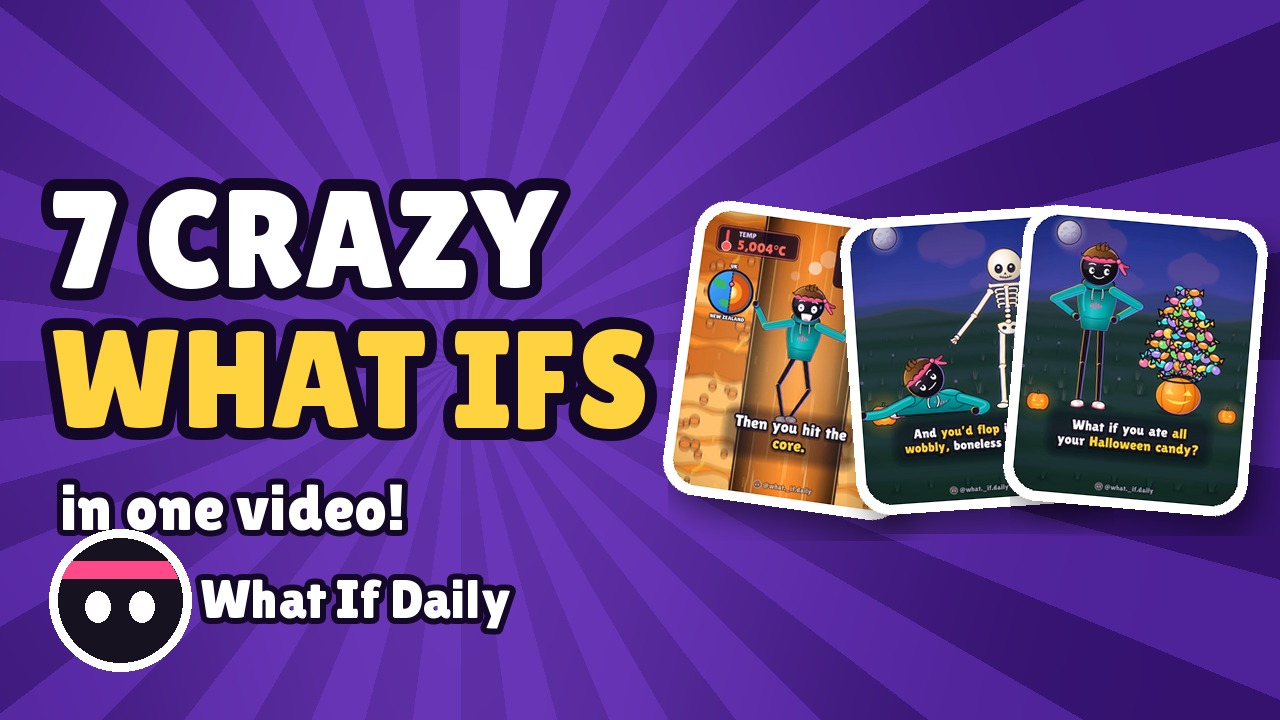
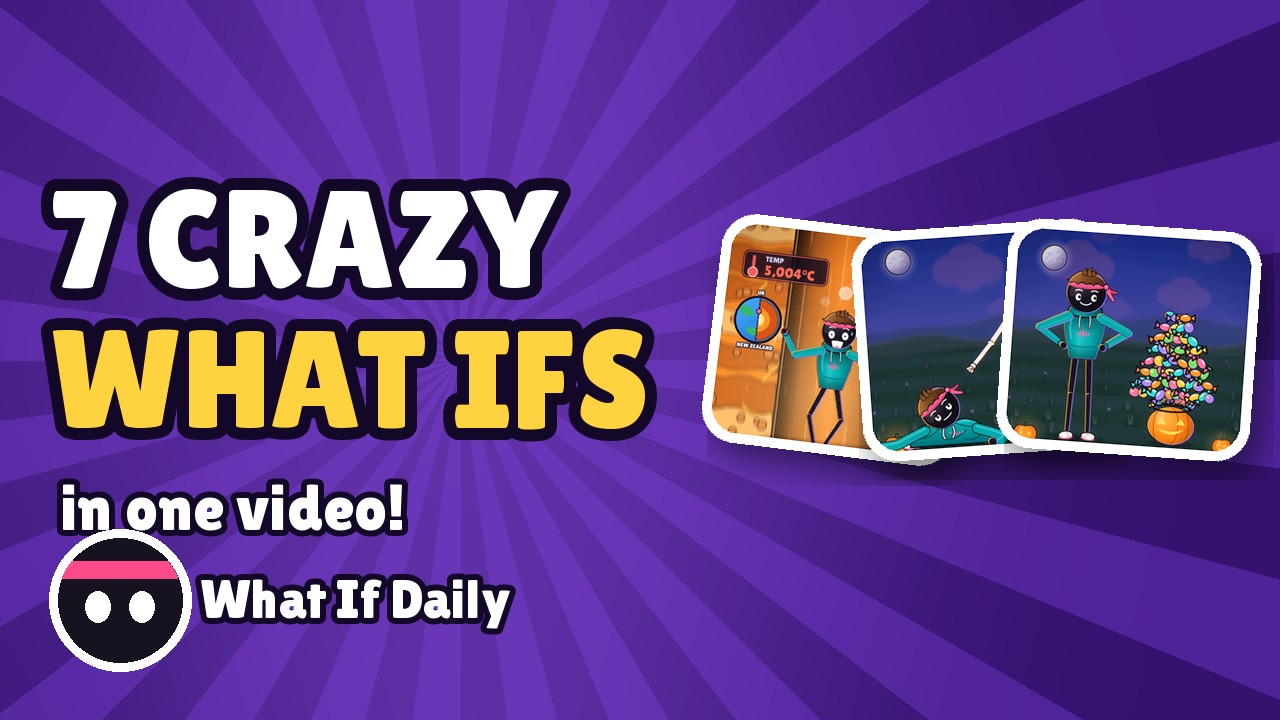
Weekly thumbnail: cards laid out from the measured headline width (never overlap) and cropped above the episode captions (owner)
Claude-Session: https://claude.ai/code/session_01CcPTQgZkcoR6w4hqDBaxUU

Changed region(s): [[0.5, 0.275, 1.0, 0.7639]]

diff --git a/weekly/thumbnail.py b/weekly/thumbnail.py
@@ -47,7 +47,7 @@ def badge(d, cx, cy, r):
 
 def card(img, w):
     """vertical 9:16 episode frame -> rounded card with white border + shadow"""
-    src = img.crop((0, 250, 1080, 1580))  # main action band (skip top/bottom UI zones)
+    src = img.crop((0, 200, 1080, 1170))  # the picture only: above the episode's captions (y ~1200-1370), so no in-video text
     h = int(w * src.height / src.width)
     c = src.resize((w, h), Image.LANCZOS)
     m = Image.new('L', (w, h), 0); ImageDraw.Draw(m).rounded_rectangle([0, 0, w - 1, h - 1], 26, fill=255)
@@ -64,19 +64,28 @@ def main():
     picks = eps if n <= 3 else [eps[0], eps[n // 2], eps[-1]]
     img = sunburst().convert('RGBA')
     tmp = tempfile.mkdtemp()
-    xs = [(800, -8), (970, 4), (1135, -5)][-len(picks):] if len(picks) == 3 else [(760, -6), (980, 5)][:len(picks)]
-    for (x, ang), e in zip(xs, picks):
+    # layout from the headline's MEASURED width, so the cards can never overlap the text
+    probe = ImageDraw.Draw(Image.new('RGB', (10, 10)))
+    HS = 138
+    head_r = 50 + max(probe.textlength(f'{n} CRAZY', font=ImageFont.truetype(FONT, HS)),
+                      probe.textlength('WHAT IFS', font=ImageFont.truetype(FONT, HS))) + HS // 11
+    left, right = head_r + 50, TW - 24
+    k = len(picks); cw = int(min(250, (right - left) / (0.62 * (k - 1) + 1.08)))
+    step = (right - left - cw * 1.08) / max(1, k - 1)
+    angs = [-7, 4, -4][:k]
+    for i, e in enumerate(picks):
         f = frame(e['mp4'], float(e.get('cover_s', 2.8)), os.path.join(tmp, 'f.png'))
-        cd = card(f, 225).rotate(ang, expand=True, resample=Image.BICUBIC)
+        cd = card(f, cw).rotate(angs[i], expand=True, resample=Image.BICUBIC)
+        x = int(left + cw * 0.54 + i * step)
         sh = Image.new('RGBA', cd.size, (0, 0, 0, 0)); sh.putalpha(cd.split()[3].point(lambda a: int(a * 0.45)))
-        img.alpha_composite(sh.filter(ImageFilter.GaussianBlur(14)), (x - cd.width // 2 + 10, 360 - cd.height // 2 + 16))
-        img.alpha_composite(cd, (x - cd.width // 2, 360 - cd.height // 2))
+        img.alpha_composite(sh.filter(ImageFilter.GaussianBlur(14)), (x - cd.width // 2 + 10, 340 - cd.height // 2 + 16))
+        img.alpha_composite(cd, (x - cd.width // 2, 340 - cd.height // 2))
     d = ImageDraw.Draw(img)
     def txt(x, y, s, sz, fill):
         f = ImageFont.truetype(FONT, sz)
         d.text((x, y), s, font=f, fill=fill, stroke_width=max(6, sz // 11), stroke_fill=INK)
-    txt(50, 160, f'{n} CRAZY', 138, (255, 255, 255))
-    txt(50, 300, 'WHAT IFS', 138, (255, 210, 63))
+    txt(50, 160, f'{n} CRAZY', HS, (255, 255, 255))
+    txt(50, 300, 'WHAT IFS', HS, (255, 210, 63))
     txt(60, 470, man.get('subtitle', 'in one video!'), 64, (255, 255, 255))
     badge(d, 120, 600, 62)
     txt(200, 568, 'What If Daily', 54, (255, 255, 255))
